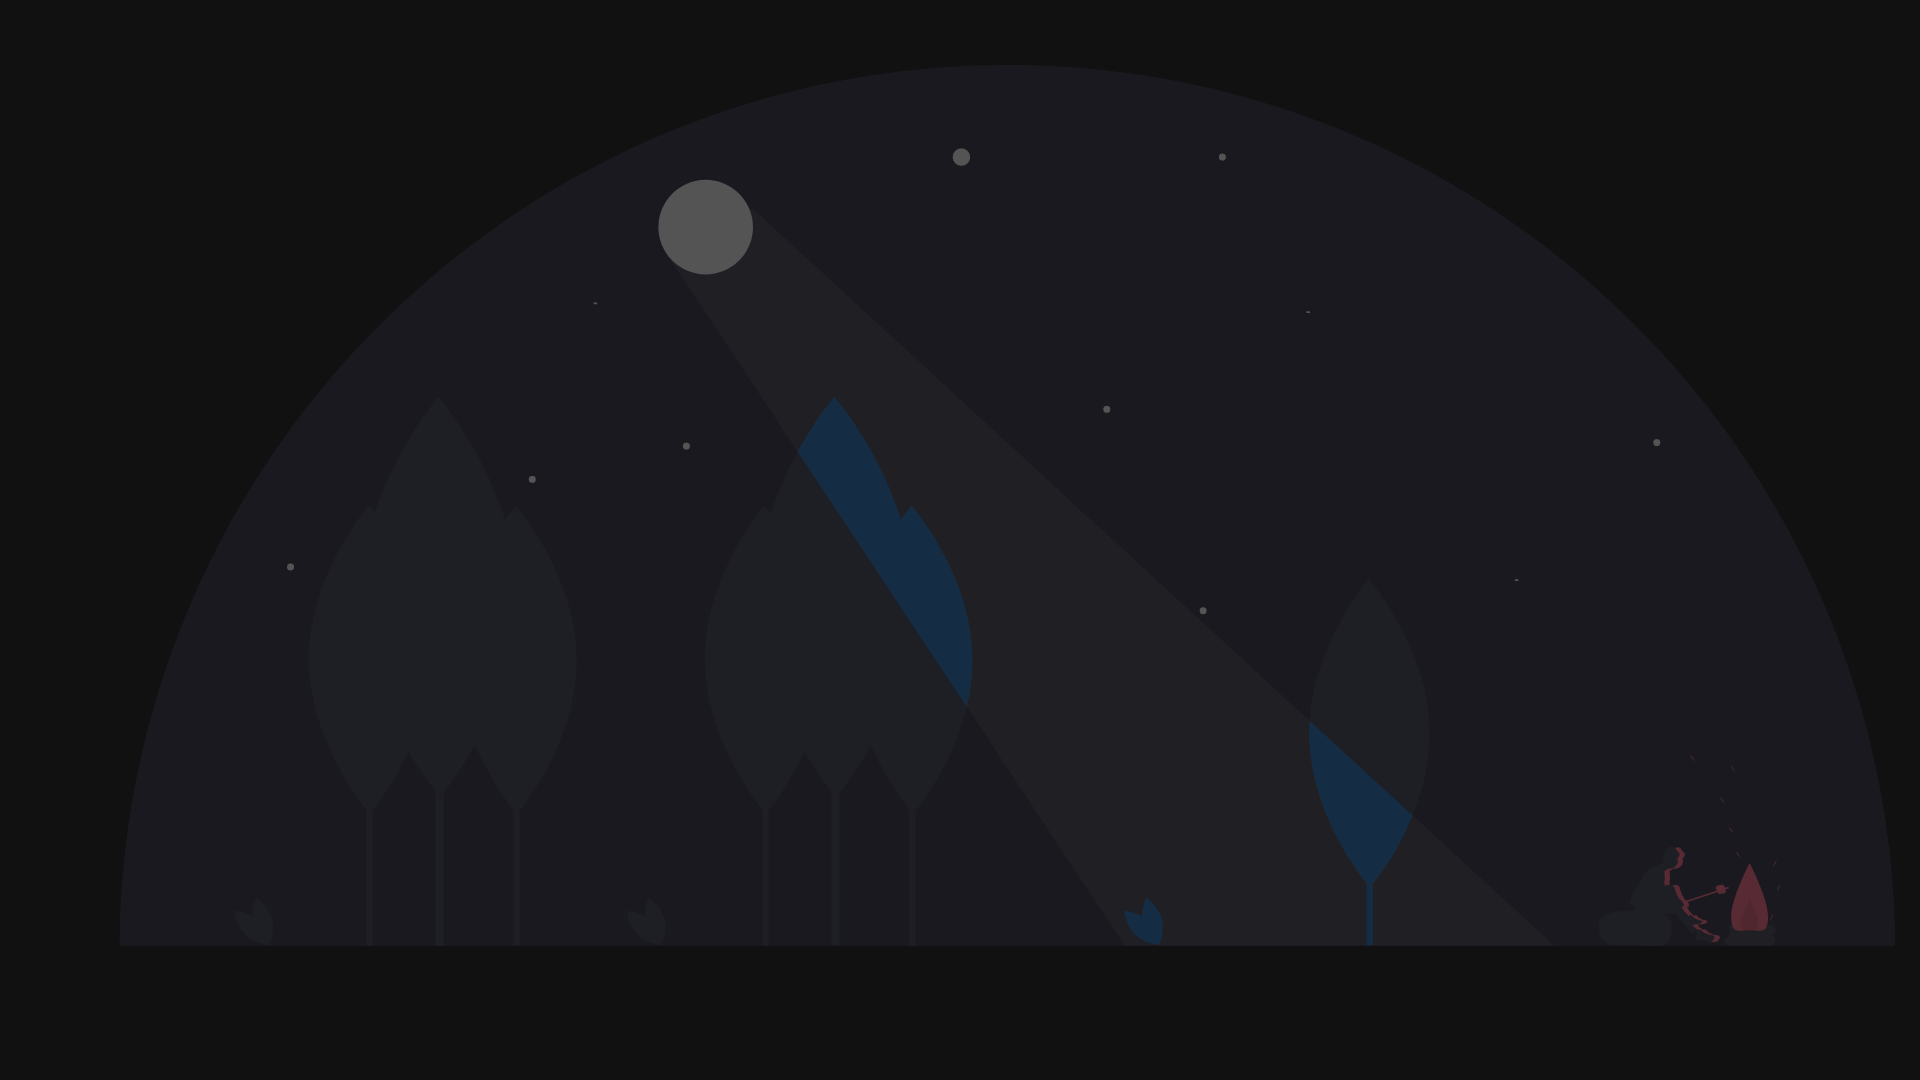
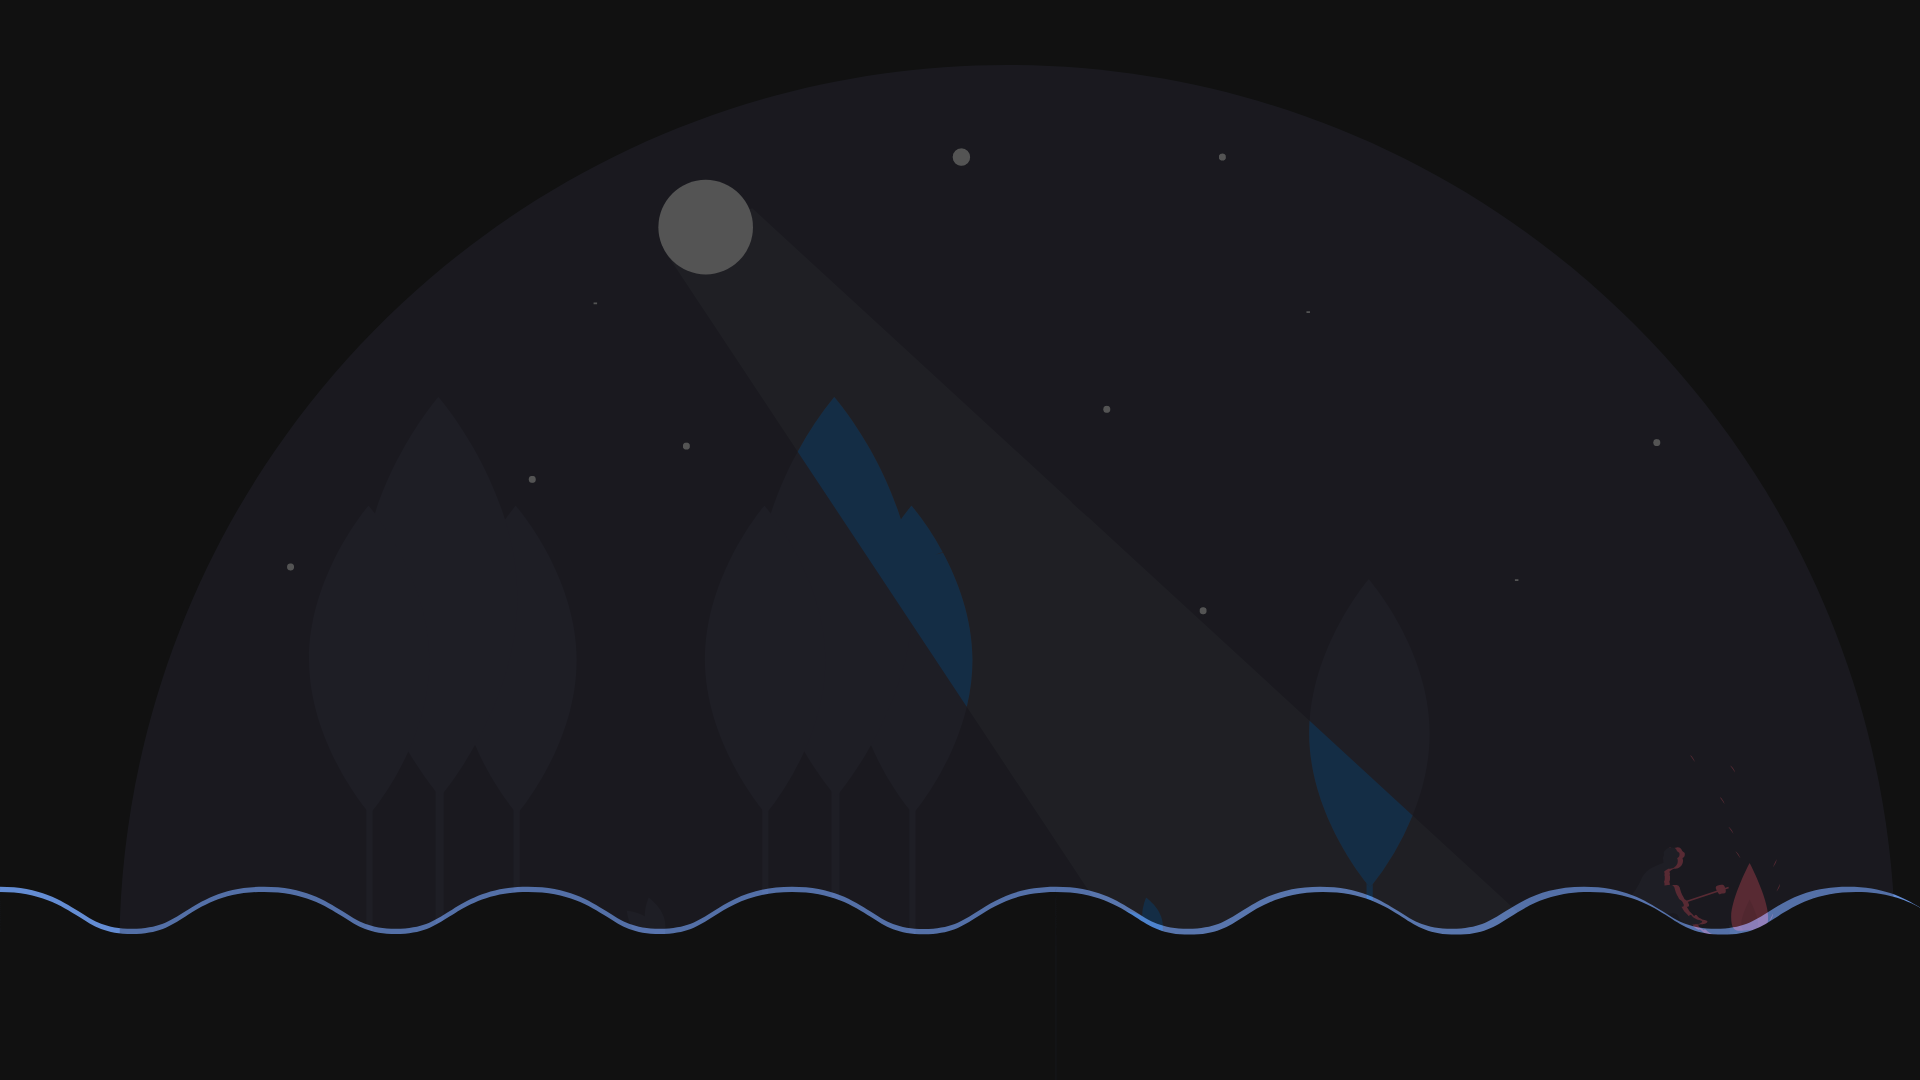
add  hero / footer img

diff --git a/assets/css/style.scss b/assets/css/style.scss
@@ -778,7 +778,7 @@ body.dark .bxl-github:before {
     padding-left: 160px;
     width: 100%;
     height: 100vh;
-    background: url("../img/HeroWA.png")  top right no-repeat ; /*Desktop foto predeterminado*/
+    background: url("../img/HeroWAA.png")  top right no-repeat ; /*Desktop foto predeterminado*/
     background-size: cover;
     position: relative;
     transition: .3s ease all;  
@@ -880,7 +880,7 @@ body.dark .bxl-github:before {
       text-align: center;
       width: 100%;
       height: 100vh;
-      background: url("../img/HeroWA.png")  top right no-repeat ; 
+      background: url("../img/HeroWAA.png")  top right no-repeat ; 
       background: #fff;
       transition: .3s ease all;
     }
@@ -982,7 +982,7 @@ body.dark .info .email {
       text-align: center;
       width: 100%;
       height: 100vh;
-      background: url("../img/HeroWA.png") no-repeat ;
+      background: url("../img/HeroWAA.png") center bottom -120px no-repeat ;
     /*  background: #fff;*/
       transition: .3s ease all;  
     }
@@ -1020,7 +1020,7 @@ body.dark .info .email {
       text-align: center;
       width: 100%;
       height: 100vh;
-      background: url("../img/heroBA.png")   no-repeat; 
+      background: url("../img/heroBA.png")  center bottom -120px no-repeat; 
     /*  background: #111;*/
       transition: .3s ease all;  
     }
@@ -2119,23 +2119,27 @@ body.dark .contact .php-email-form input {
   # Footer
   --------------------------------------------------------------*/
   #footer {
-    background: #f7f8f9;
+    background: url("../img/imgfooterW.png")  top  no-repeat ; 
     color: #45505b;
-    font-size: 14px;
-    text-align: center;
-    padding: 30px 0;
-    margin-top: 80px;
-  }
-
-  #footer, .container.dark{
-    background: #2222;
-    color: #45505b;
-    font-size: 14px;
     text-align: center;
     padding: 30px 0;
     margin-top: 80px;
     transition: .3s ease all;
+    width: 100%;
+    background-size: cover;
+    position: relative;
+  }
 
+ body.dark #footer {
+    background: url("../img/imgfooter.png")  top  no-repeat ; 
+    color: #45505b;
+    text-align: center;
+    padding: 30px 0;
+    margin-top: 80px;
+    transition: .3s ease all;
+    width: 100%;
+    background-size: cover;
+    position: relative;
   }
     
   #footer h3 {
@@ -2248,7 +2252,7 @@ body.dark .contact .php-email-form input {
 *, ::after, ::before {
   -webkit-box-sizing: border-box;
   box-sizing: border-box;
-  border-radius: 10px;
+  border-radius: 0px;    // BORDER A TODO 
   outline: none;
   border: none;
 }

diff --git a/assets/css/style.css b/assets/css/style.css
@@ -796,7 +796,7 @@ body.dark .address {
     padding-left: 160px;
     width: 100%;
     height: 100vh;
-    background: url("../img/HeroWA.png") top right no-repeat;
+    background: url("../img/HeroWAA.png") top right no-repeat;
     /*Desktop foto predeterminado*/
     background-size: cover;
     position: relative;
@@ -900,7 +900,7 @@ body.dark .address {
     text-align: center;
     width: 100%;
     height: 100vh;
-    background: url("../img/HeroWA.png") top right no-repeat;
+    background: url("../img/HeroWAA.png") top right no-repeat;
     background: #fff;
     -webkit-transition: .3s ease all;
     transition: .3s ease all;
@@ -1021,7 +1021,7 @@ body.dark .address {
     text-align: center;
     width: 100%;
     height: 100vh;
-    background: url("../img/HeroWA.png") no-repeat;
+    background: url("../img/HeroWAA.png") center bottom -120px no-repeat;
     /*  background: #fff;*/
     -webkit-transition: .3s ease all;
     transition: .3s ease all;
@@ -1059,7 +1059,7 @@ body.dark .address {
     text-align: center;
     width: 100%;
     height: 100vh;
-    background: url("../img/heroBA.png") no-repeat;
+    background: url("../img/heroBA.png") center bottom -120px no-repeat;
     /*  background: #111;*/
     -webkit-transition: .3s ease all;
     transition: .3s ease all;
@@ -2199,23 +2199,29 @@ textarea.form-control {
   # Footer
   --------------------------------------------------------------*/
 #footer {
-  background: #f7f8f9;
+  background: url("../img/imgfooterW.png") top no-repeat;
   color: #45505b;
-  font-size: 14px;
-  text-align: center;
-  padding: 30px 0;
-  margin-top: 80px;
-}
-
-#footer, .container.dark {
-  background: #2222;
-  color: #45505b;
-  font-size: 14px;
   text-align: center;
   padding: 30px 0;
   margin-top: 80px;
   -webkit-transition: .3s ease all;
   transition: .3s ease all;
+  width: 100%;
+  background-size: cover;
+  position: relative;
+}
+
+body.dark #footer {
+  background: url("../img/imgfooter.png") top no-repeat;
+  color: #45505b;
+  text-align: center;
+  padding: 30px 0;
+  margin-top: 80px;
+  -webkit-transition: .3s ease all;
+  transition: .3s ease all;
+  width: 100%;
+  background-size: cover;
+  position: relative;
 }
 
 #footer h3 {
@@ -2321,7 +2327,7 @@ textarea.form-control {
 *, ::after, ::before {
   -webkit-box-sizing: border-box;
   box-sizing: border-box;
-  border-radius: 10px;
+  border-radius: 0px;
   outline: none;
   border: none;
 }
